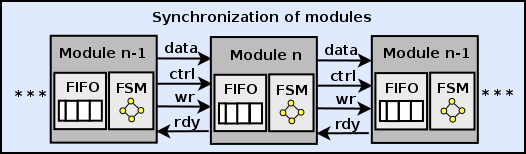
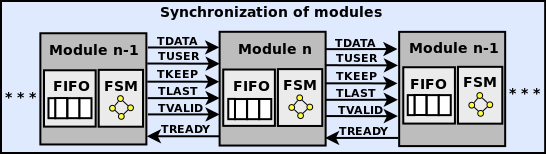
Add explanation about maps table

diff --git a/05implementation.tex b/05implementation.tex
@@ -14,7 +14,8 @@ FPGA (Field Programmable Gate Array) enables to build hardware logic system.
 The NetFPGA SUME hardware has four SFP+ transceiver that support 10 Gbps Ethernet ports.
 It connects to a motherboard though an PCIe Gen 3 x8 adapter.
 It contains a Xilinx Vertex-7 690T FPGA~\cite{Virtex7},
-which has approximately \marcos{XXXX logic cells, a 4 KiB SRAM with $2^{19}$ lines and 8 ns (125 MHz)} clock cycle.
+which has approximately 693,120 logic cells, a 27 MiB SRAM and 5 ns (200 MHz) clock cycle.  
+\marcos{XXXX logic cells, a 4 KiB SRAM with $2^{19}$ lines and 8 ns (125 MHz)} clock cycle.
 
 The packets in the NetFPGA are processed in the form of 64-bit words and 8-bit control to identify the word type (data or metadata). Words are transmitted by the data signal and the control by the ctrl signal. If the control signal is equal to zero, it means that the words of the packet are being transmitted, otherwise the words are from the metadata.
 
@@ -115,9 +116,9 @@ Thus, we design an eBPF processor with a pipeline of 5 stages.
 
 %As a design decision, we have put the instruction memory outside of the eBPF processor in order to enable the connection of multiple processors in the future using a shared instruction memory. By increasing the number of eBPF processors in the datapath of the switch, more packets can be processed, contributing to the increase in the switch's throughput.
 
-The eBPF instructions define the behavior of how the eBPF processor handles the packets. The instructions are inserted into the instruction memory via the NetFPGA register interface. Software registers were created to insert the eBPF instructions into the processor instruction memory. The instructions are received on the switch through messages sent by the controller. The instructions are then written to the software registers and forwarded to instruction memory via the hardware PCI bus. 
+\textcolor{blue}{The eBPF instructions define the behavior of how the eBPF processor handles the packets. The instructions are inserted into the instruction memory via the NetFPGA register interface. Software registers were created to insert the eBPF instructions into the processor instruction memory. The instructions are received on the switch through messages sent by the controller. The instructions are then written to the software registers and forwarded to instruction memory via the hardware PCI bus.} 
 
-Instruction memory uses a double buffer system - DBS (Figure~\ref{fig:mem_db}) to provide zero downtime in the change of eBPF programs. This system is composed of two memories (M1 and M2). Both memories never assume the same state (writing or reading) at the same time. It means that while eBPF program written to a memory, the eBPF processor reads the instructions of another memory. DBS is initialized with eBPF instructions written on M1, while M2 will remain idle. The system remains in the wait state until a new set of instructions will be received. After the instructions are written to M1, the system will return to the standby state. When a new set of instructions are received, the memories will have their states changed, which means that M1 will no longer be written and will be read while M2 will be written. If a new instruction set is received, these instructions are written in M2, while the instructions previously written in M1 are read and processed by the eBPF processor. This process is repeated indefinitely until the arrived of another instruction set. 
+\textcolor{blue}{Instruction memory uses a double buffer system - DBS (Figure~\ref{fig:mem_db}) to provide zero downtime in the change of eBPF programs. This system is composed of two memories (M1 and M2). Both memories never assume the same state (writing or reading) at the same time. It means that while eBPF program written to a memory, the eBPF processor reads the instructions of another memory. DBS is initialized with eBPF instructions written on M1, while M2 will remain idle. The system remains in the wait state until a new set of instructions will be received. After the instructions are written to M1, the system will return to the standby state. When a new set of instructions are received, the memories will have their states changed, which means that M1 will no longer be written and will be read while M2 will be written. If a new instruction set is received, these instructions are written in M2, while the instructions previously written in M1 are read and processed by the eBPF processor. This process is repeated indefinitely until the arrived of another instruction set.} 
 
 \begin{figure}[ht]
 \centering
@@ -126,7 +127,7 @@ Instruction memory uses a double buffer system - DBS (Figure~\ref{fig:mem_db}) t
 \label{fig:mem_db}
 \end{figure}
 
-As a design decision, we have put the instruction memory outside of the eBPF processor in order to enable the connection of multiple processors in the future using a shared instruction memory. By increasing the number of eBPF processors in the datapath of the switch, more packets can be processed, contributing to the increase in the switch's throughput.
+\textcolor{blue}{As a design decision, we have put the instruction memory outside of the eBPF processor in order to enable the connection of multiple processors in the future using a shared instruction memory. By increasing the number of eBPF processors in the datapath of the switch, more packets can be processed, contributing to the increase in the switch's throughput.}
 
 
 \begin{comment}
@@ -144,15 +145,6 @@ As a design decision, we have put the instruction memory outside of the eBPF pro
 \subsection{Maps}
 \label{ssec:maps}
 
-\begin{figure}[ht]
-\centering
-\includegraphics[width=1.\linewidth]{figures/coprocessor.png}
-\caption{Coprocessor and Maps table.}
-\label{fig:coproc}
-\end{figure}
-
-\ref{fig:coproc}
-
 eBPF Linux kernel implementation allows for maps. Maps are a generic data structure that store different types of data in the form of key-value pairs. 
 % Currently, the Linux Kernel allows for three different types of maps. Hash map applies a hash before inserting in the table. Array map accesses the table with an integer index. Program array map is used to store a program. eBPF programs can manipulate maps through specific kernel function calls, such as bpf\_map\_lookup\_elem().
 
@@ -164,6 +156,16 @@ It is generated using Xilinx's IP core generator \textit{coregen}~\cite{xilinx_c
 There are three functions to manipulate the maps: update, delete, and lookup. The update operation updates an item into the map. If the item does not exist, it inserts the item. The delete operation removes the item with the given key. The lookup operation searches for the key and returns an item.
 To manipulate these tables, the user can write C program and invoke the three functions through function calls.
 
+\begin{figure}[ht]
+\centering
+\includegraphics[width=1.\linewidth]{figures/coprocessor.png}
+\caption{Coprocessor and Maps table.}
+\label{fig:coproc}
+\end{figure}
+
+\color{blue}
+Since maps are generic data structures, allowing keys and values of multiple byte lengths, the coprocessor needs to know the actual size of the data being read/written to map memory. This information is stored in a \textit{maps table}, shown in Figure \ref{fig:coproc}, which holds metadata about each map declared in the current loaded program. That includes map type, key and value masks and the maximum number of elements allowed in the map. Our current implementation allows for maximum key and value sizes of 6 and 4 bytes, respectively, and values are passed to the coprocessor by copy through registers r1-r4 on map calls. A lookup on the maps table is performed on every map operation to retrieve key and value masks, which are used in a bitwise-AND operation with the data to clean any unwanted bits. The map's type is also used by the coprocessor to switch to the proper memory unit (CAM or TCAM).
+\color{black}
 
 \subsection{Call instruction}
 
@@ -197,14 +199,21 @@ Thus, for optimization, current call instruction is done through synchronous com
 \begin{figure}[ht]
 \centering
 \includegraphics[width=\linewidth]{figures/06_fig04.png}
-\caption{Synchronization of the switch modules.}
+%\caption{Synchronization of the switch modules.}
+\caption{Synchronization of the eBPFlow modules.}
 \label{fig:06_fig04}
 \end{figure}
 
+\begin{comment}
 The synchronization of the NetFPGA modules operates in a standardized way. Figure~\ref{fig:06_fig04} shows the synchronism of the modules with their respective signals. The write (wr) and ready (rdy) signals control the communication between the modules. The wr signal informs when the previous module is ready to transmit (when it has content to transmit) and the rdy signal indicates that the next module is ready to receive. The transfer of data between modules only occurs if the two signals are active.
 
 Each module contains an input queue and a finite state machine. The input queue is used to temporarily store the \textit{data} and \textit{ctrl} signal until the state machine module can remove the word from the queue. The state machine of each module has a specific behavior.
+\end{comment}
 
+\textcolor{blue}{The synchronization of the NetFPGA modules operates of standardized way based on AXI-4 stream Xilinx protocol~\cite{XilinxAXI4}. Figure~\ref{fig:06_fig04} shows the 
+synchronism of the modules with their respective signals. TDATA represents the data stream. TUSER is out of band metadata. TKEEP marks qualified bytes (i.e byte enable). TLAST indicates end of packet/burst. The write (TVALID) and ready (TREADY) signals control the communication between the modules. The TVALID signal informs when the previous module is ready to transmit (when it has content to transmit) and the TREADY signal indicates that the next module is ready to receive. The transfer of data between modules only occurs if the two signals are active.} 
+
+\textcolor{blue}{Each module contains an input queue and a finite state machine. The input queue is used to temporarily store the TDATA, TUSER, TKEEP  and TLAST signals until the state machine module can remove the word from the queue. The state machine of each module has a specific behavior.}
 
 \subsection{User space tools}
 
@@ -219,7 +228,7 @@ They open a connection to the controller and transmit the eBPF program, which wa
 These bytecodes are installed in the switch by the controller at runtime.
 In Section~\ref{sec:experiments}, we provide examples of applications
 \color{black}
-
+\color{blue}
 A set of tools were implemented as part of the eBPFlow infrastructure: an eBPF disassembler, a code loader (Section~\ref{ssec:loader}), a software emulator, and a CLI application to interact with the processor.
 
 The emulator leveraged the uBPF\footnote{https://github.com/iovisor/ubpf} GitHub project and aims to replicate the processor's behavior in software. It enables code testing and debugging with well-known tools such as \textit{gdb}, enabling faster and easier bug detection and correction even before deploying the code to hardware.
@@ -233,3 +242,5 @@ Loading code to the processor is done through the use of a \textit{loader}, spec
 At the beginning of every eBPF program, registers r1 and r10 need to be initialized with pointers to the packet to the top of the stack, respectively. Since these are specific to the runtime environment (here, the processor), such initialization is not part of the code generated by \textit{clang} compiler. Thus, when loading a program the loader appends two instructions at the beginning of the instruction memory to correctly initialize those two registers with the proper addresses. Moreover, the compiler adds map information to the eBPF ELF file as a relocation section, which needs to be processed before code execution. This job is also done by the \textit{loader}, which adjusts all map \textit{call} instructions with their corresponding map values according to the relocation table in the ELF file.
 
 Finally, the \textit{loader} interacts with the processor register interface to load the list of instructions to the instruction memory and metadata about every map in the program to the maps table (Section \ref{ssec:maps}), after which the processor is ready to execute any incoming packets based on the loaded eBPF program. Through the register interface the loader is also able to query status information about the processor, such as the value of r0, which instruction memory is being currently used and if the last load was successful or not.
+
+\color{black}
